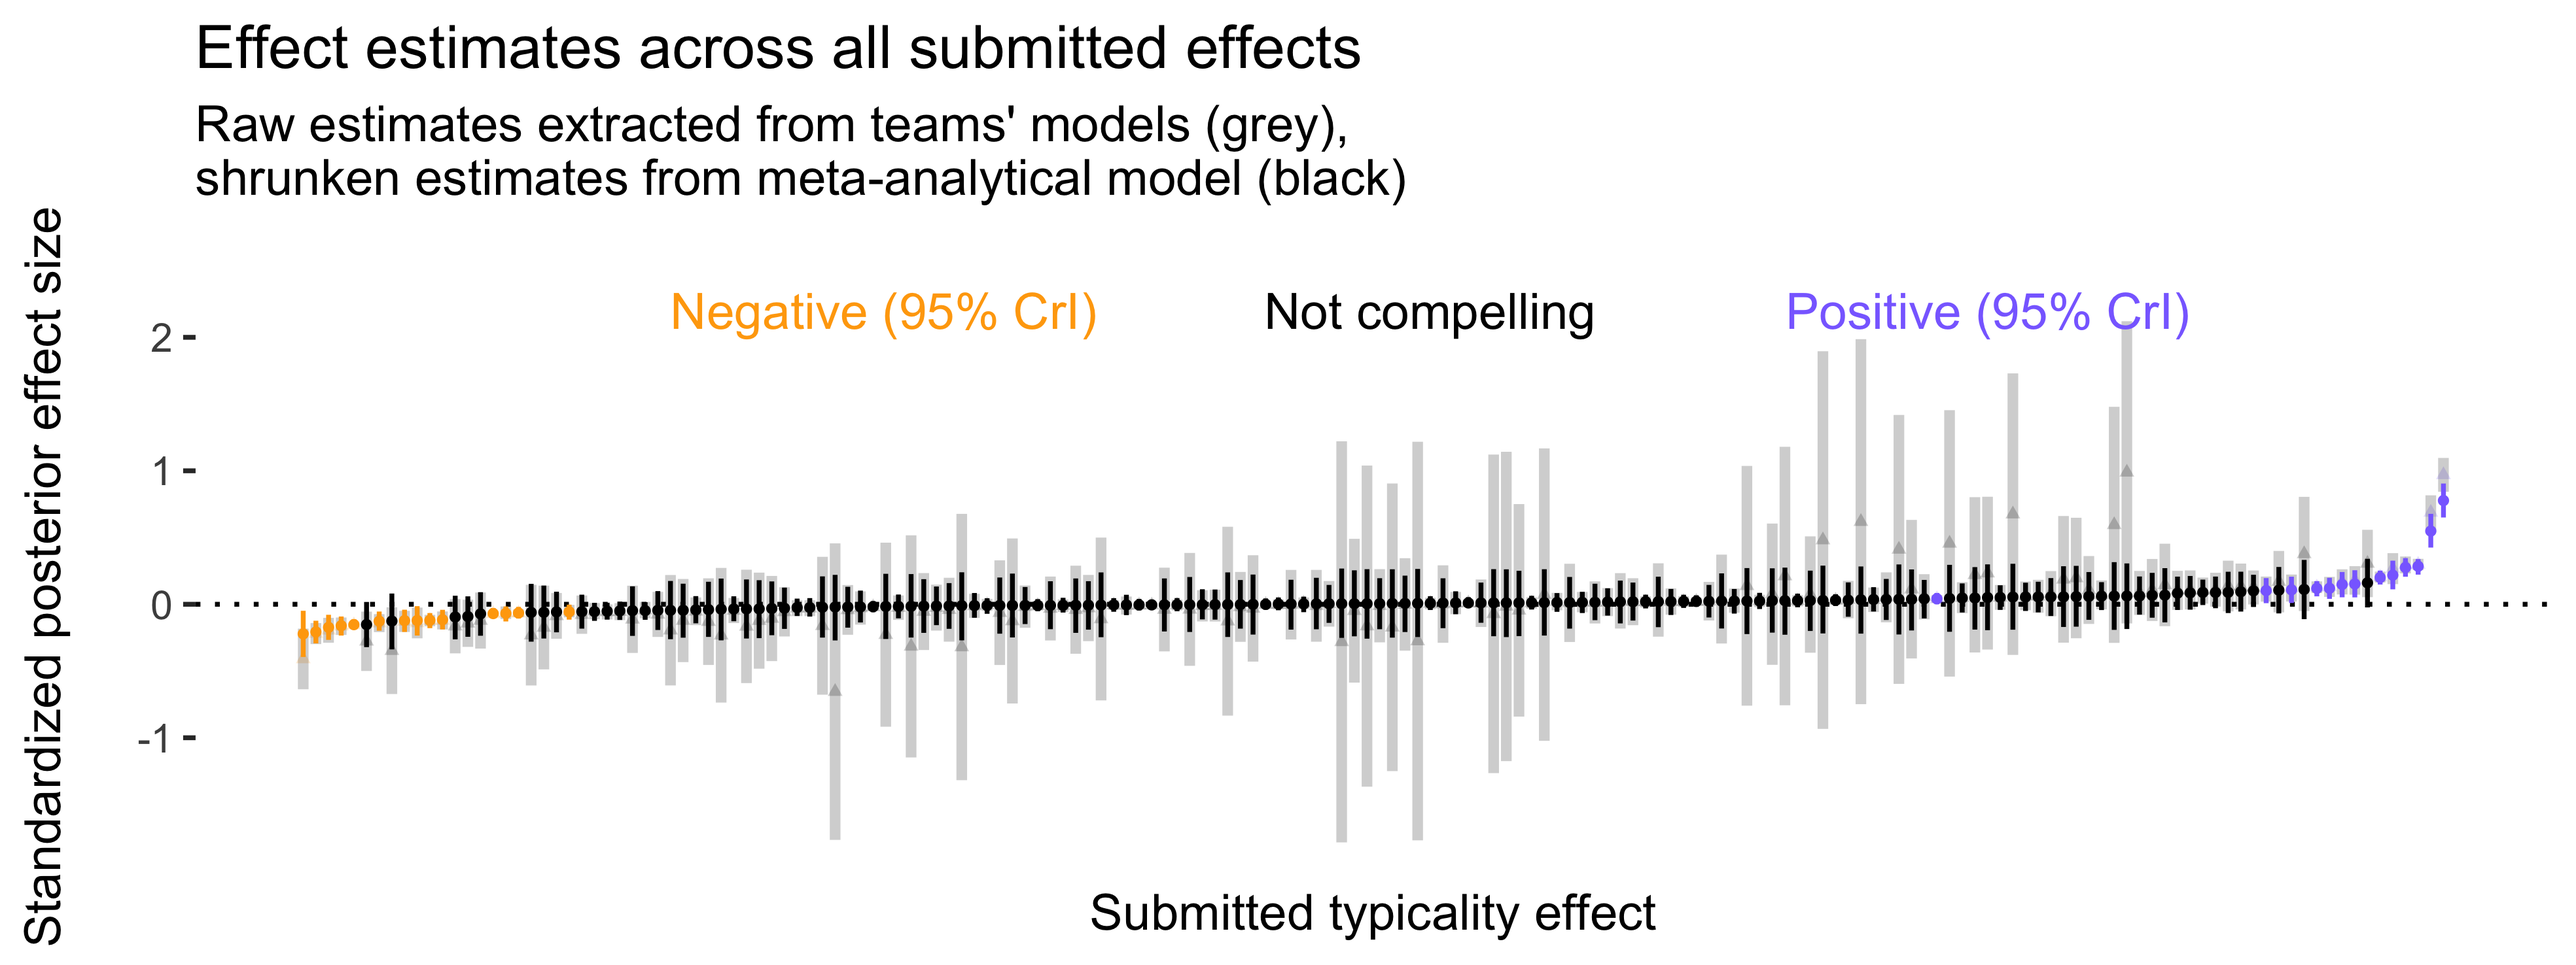
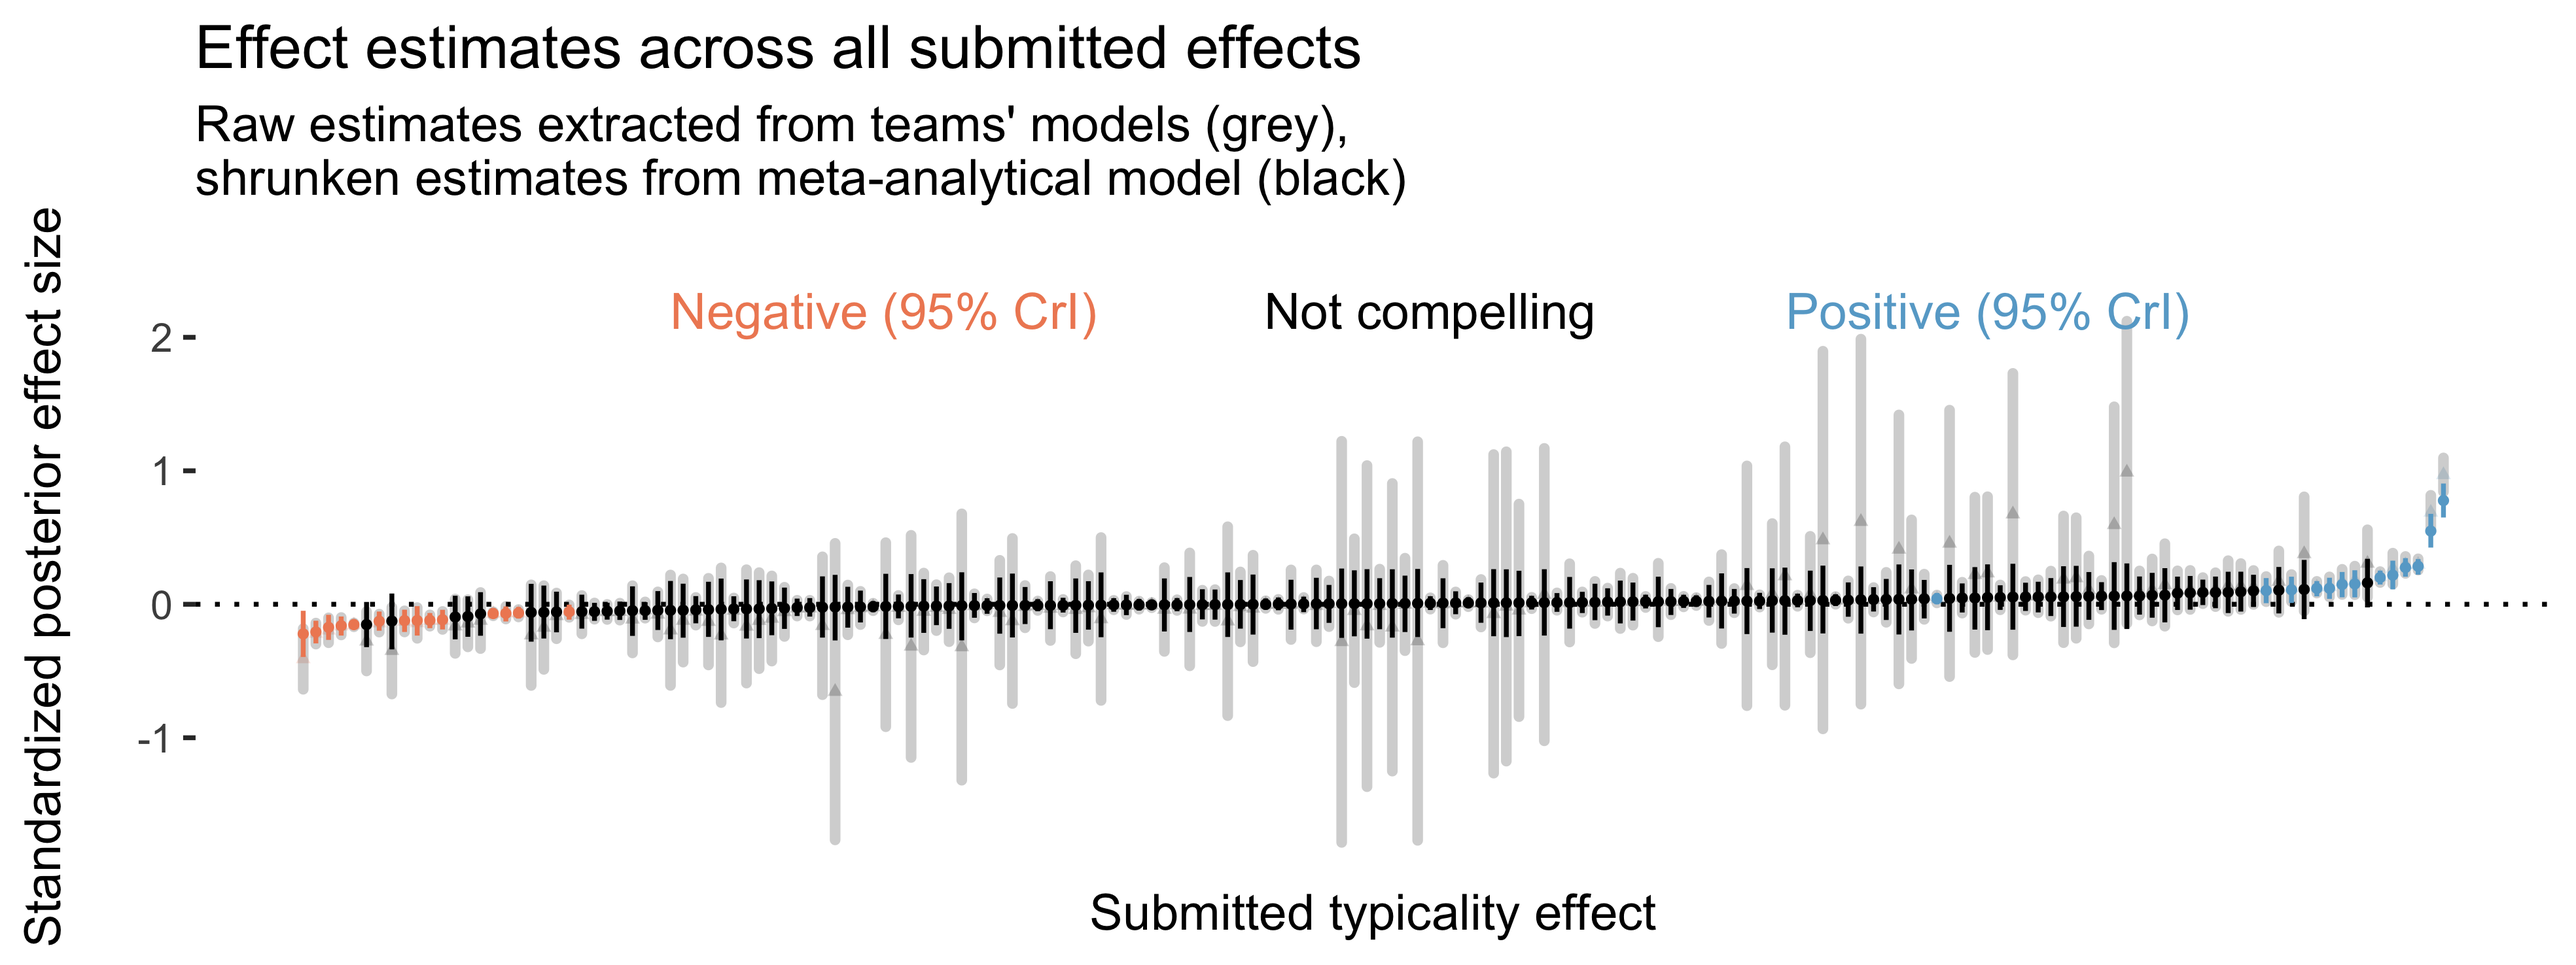
♻ - render meta-analysis

diff --git a/scripts/r/05_meta-analysis.html b/scripts/r/05_meta-analysis.html
@@ -640,8 +640,10 @@ merged &lt;-
              pch = 17,
              fill = &quot;black&quot;,
              alpha = 0.2) +
-  geom_errorbar(aes(ymin = estimate - 1.96*se, 
-                    ymax = estimate + 1.96*se),
+  geom_segment(aes(xend = reorder(model_id, post_mean), 
+                   y = estimate - 1.96*se, 
+                   yend = estimate + 1.96*se),
+                lineend = &quot;round&quot;,
                 size = 1.1,
                 width = 0,
                 color = &quot;black&quot;,
@@ -652,7 +654,7 @@ merged &lt;-
   scale_x_discrete(expand =  c(0.05,0.05)) + 
   annotate(&quot;text&quot;, x = c(30, 90, 150), y = 2.2,
            hjust = c(0, 0.5, 1),
-           color = c(b4ss_colors[[2]], &quot;black&quot;, b4ss_colors[[1]]),
+           color = c(&quot;#ef8a62&quot;, &quot;black&quot;, &quot;#67a9cf&quot;),
            label = c(&quot;Negative (95% CrI)&quot;, &quot;Not compelling&quot;, &quot;Positive (95% CrI)&quot;)
            ) +
   # annotate(&quot;text&quot;, x = 151, y = 1.5,
@@ -675,16 +677,15 @@ merged &lt;-
        subtitle = &quot;Raw estimates extracted from teams&#39; models (grey),\nshrunken estimates from meta-analytical model (black)\n&quot;,
        x = &quot;Submitted typicality effect&quot;, 
        y = &quot;Standardized posterior effect size\n&quot;) +
-  scale_color_manual(values = c(b4ss_colors[[1]], &quot;black&quot;, b4ss_colors[[2]])) + 
+  scale_color_manual(values = c(&quot;#67a9cf&quot;,&quot;black&quot;,&quot;#ef8a62&quot;)) + 
   theme_classic() +
   theme(legend.position = &quot;none&quot;,
         axis.text.x = element_blank(),
         axis.ticks.x = element_blank(),
         axis.line = element_blank()
-        )
-
-
-meta_raw &lt;- 
+        )</code></pre>
+<pre><code>## Warning: Ignoring unknown parameters: width</code></pre>
+<pre class="r"><code>meta_raw &lt;- 
   ggplot(data = merged,
     aes(x = reorder(model_id, estimate), 
         y = estimate,
